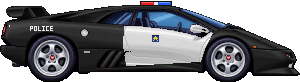
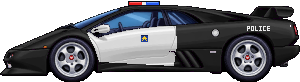
Diablo e viatura: lateral com a frente para a esquerda, como os demais (v0.22.6)
Regra registrada no CLAUDE.md para os próximos carros.

Claude-Session: https://claude.ai/code/session_01MLD9VR7gkmY4w6a9beZcp6

diff --git a/src/cars.ts b/src/cars.ts
@@ -353,11 +353,11 @@ const WHEELS: Record<string, number[][]> = {
   'br-golgti': [[0.197, 0.773, 0.086], [0.833, 0.773, 0.086]],
   'br-vectra': [[0.178, 0.777, 0.07], [0.778, 0.779, 0.07]],
   'countach': [[0.225, 0.732, 0.054], [0.809, 0.735, 0.054]],
-  'diablo': [[0.173, 0.688, 0.072], [0.763, 0.688, 0.072]],
+  'diablo': [[0.237, 0.688, 0.072], [0.827, 0.688, 0.072]], // lateral com a frente à esquerda
   'f40': [[0.244, 0.741, 0.08], [0.812, 0.735, 0.08]],
   'nsx': [[0.208, 0.728, 0.074], [0.777, 0.729, 0.074]],
   'patrol': [[0.188, 0.794, 0.07], [0.739, 0.798, 0.068]],
-  'patrolsv': [[0.173, 0.707, 0.072], [0.763, 0.707, 0.072]],
+  'patrolsv': [[0.237, 0.707, 0.072], [0.827, 0.707, 0.072]],
   'testarossa': [[0.231, 0.692, 0.082], [0.803, 0.692, 0.082]],
   'viper': [[0.199, 0.742, 0.077], [0.761, 0.742, 0.077]],
   'zr1': [[0.21, 0.734, 0.076], [0.766, 0.734, 0.076]],

diff --git a/tools/ref/patrolsv_sprites.py b/tools/ref/patrolsv_sprites.py
@@ -37,14 +37,19 @@ def main():
     assets = sys.argv[1]
     cars = os.path.join(assets, 'cars')
     s, m = load(cars, 'side')
+    # a lateral do Diablo olha para a esquerda; as medidas abaixo são da arte espelhada (frente à
+    # direita): espelha, pinta e volta, e só então desenha brasão, letreiro e giroflex
+    s, m = s[:, ::-1].copy(), m[:, ::-1].copy()
     door = np.zeros(m.shape, np.uint8)
     cv2.fillPoly(door, [np.array(DOOR, np.int32)], 1)
     repaint(s, m & (door == 0), 10, 70)
     repaint(s, m & (door > 0), 170, 250)
-    badge(s, 152, 30)
-    text(s, 'POLICE', 30, 21, (236, 236, 236, 255))
+    s = s[:, ::-1].copy()
+    W = s.shape[1]
+    badge(s, W - 152 - 7, 30)
+    text(s, 'POLICE', W - 30 - 23, 21, (236, 236, 236, 255))
     s = pad_top(s, 5)
-    lightbar(s, 140, 172, 1, 'red', 'blue')
+    lightbar(s, W - 172, W - 140, 1, 'red', 'blue')
     Image.fromarray(s, 'RGBA').save(os.path.join(cars, 'patrolsv-side.png'))
 
     f, m = load(cars, 'front')

diff --git a/CLAUDE.md b/CLAUDE.md
@@ -43,3 +43,7 @@
   qualquer tamanho de quadro (capa do menu e carregamento); se não couber, a foto diminui e os lados
   ficam com a própria foto desfocada. Nunca usar foco fixo.
 - Ao adicionar fotos, conferir todas as capas novas com print (`node tools/covers_check.cjs <pasta>`, com o vite rodando) antes de publicar.
+
+## Carros novos
+- A vista lateral de todo carro fica com a **frente para a esquerda** (como os demais). Se a arte vier
+  virada para a direita, espelhar a lateral e a máscara e espelhar as rodas em `WHEELS` (x -> 1 - x).
